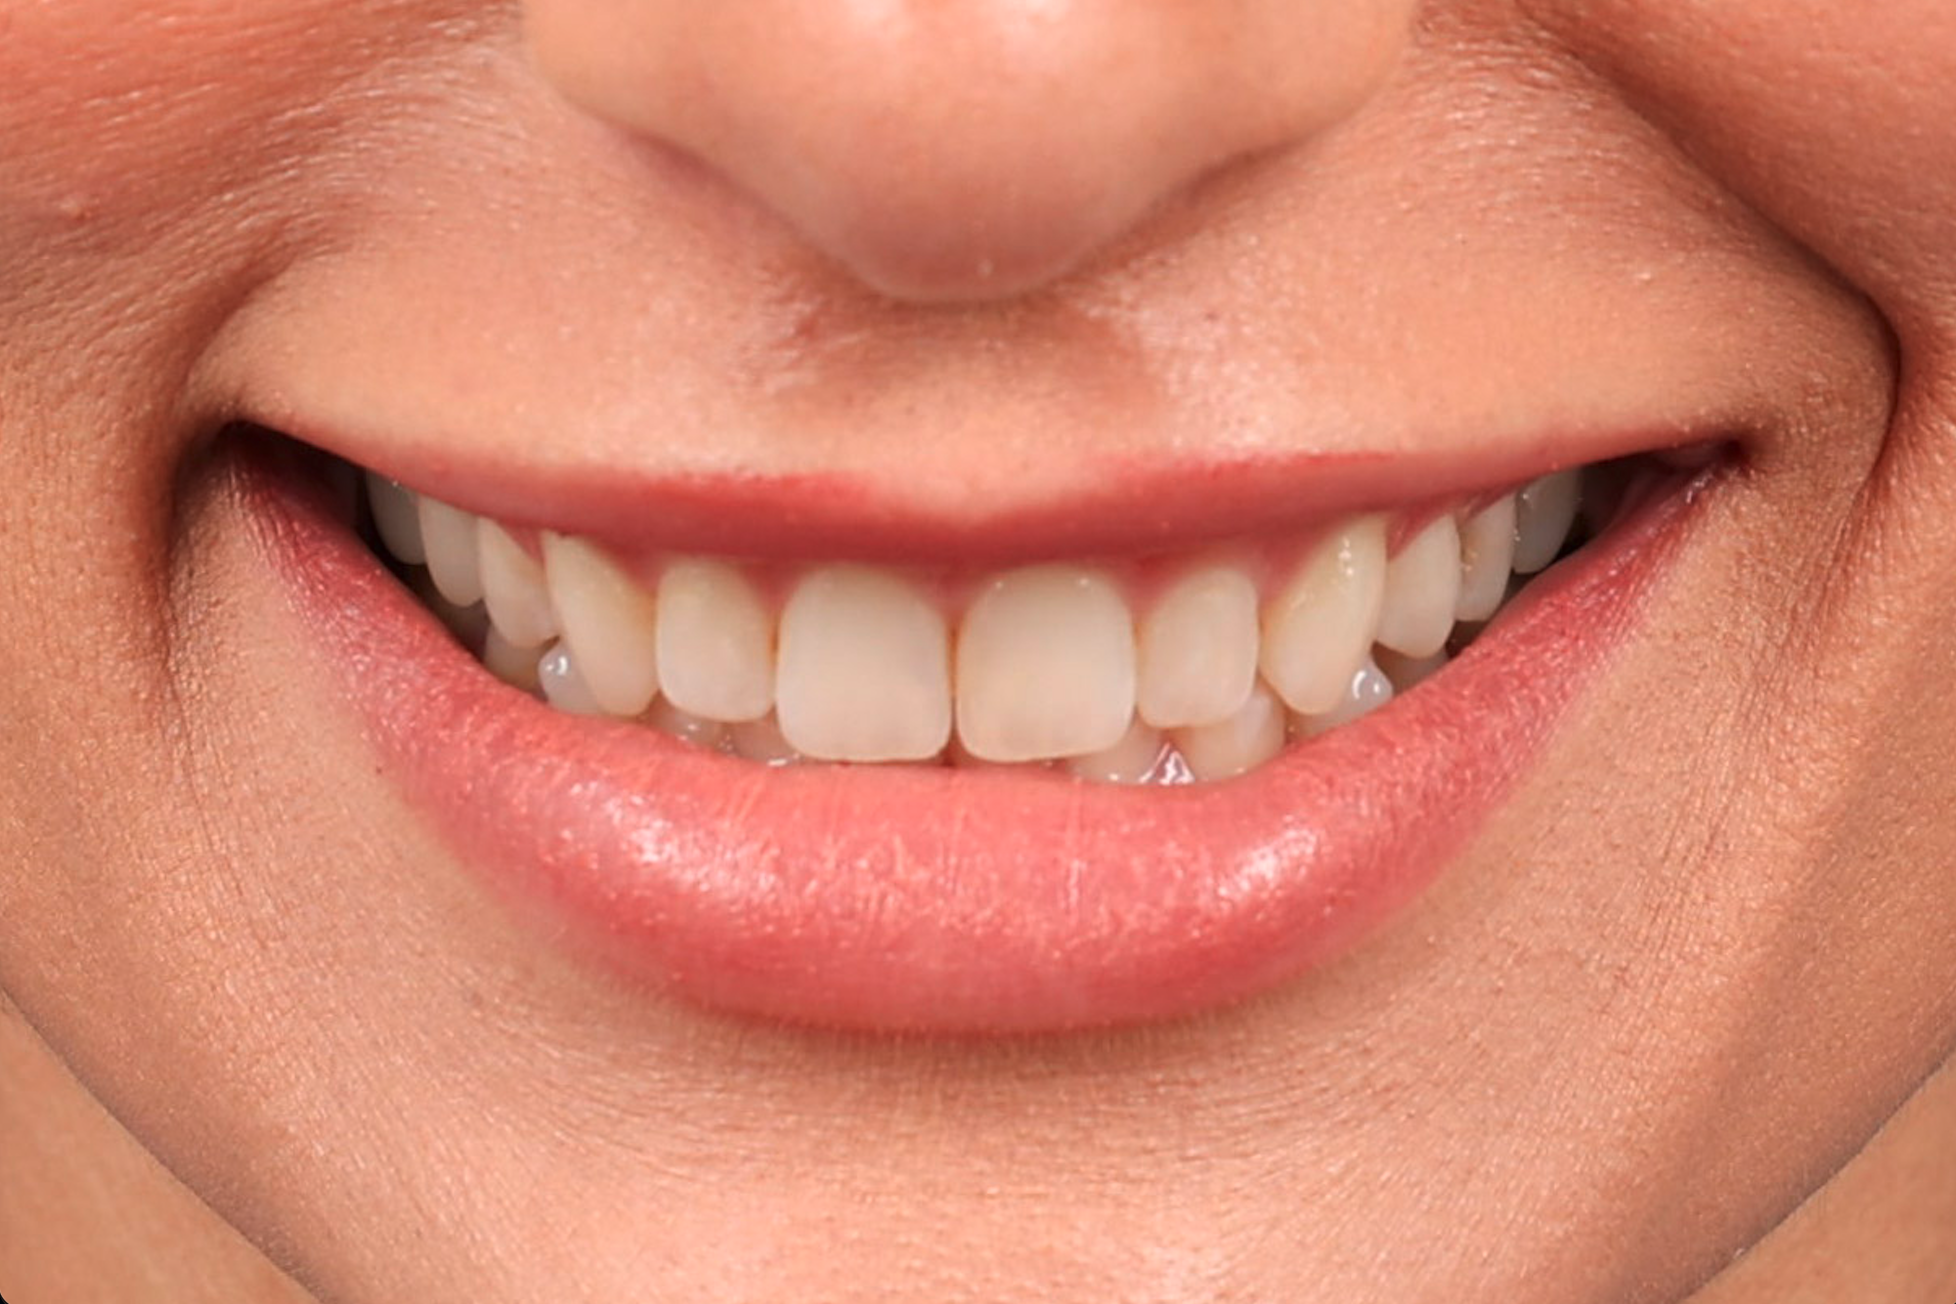
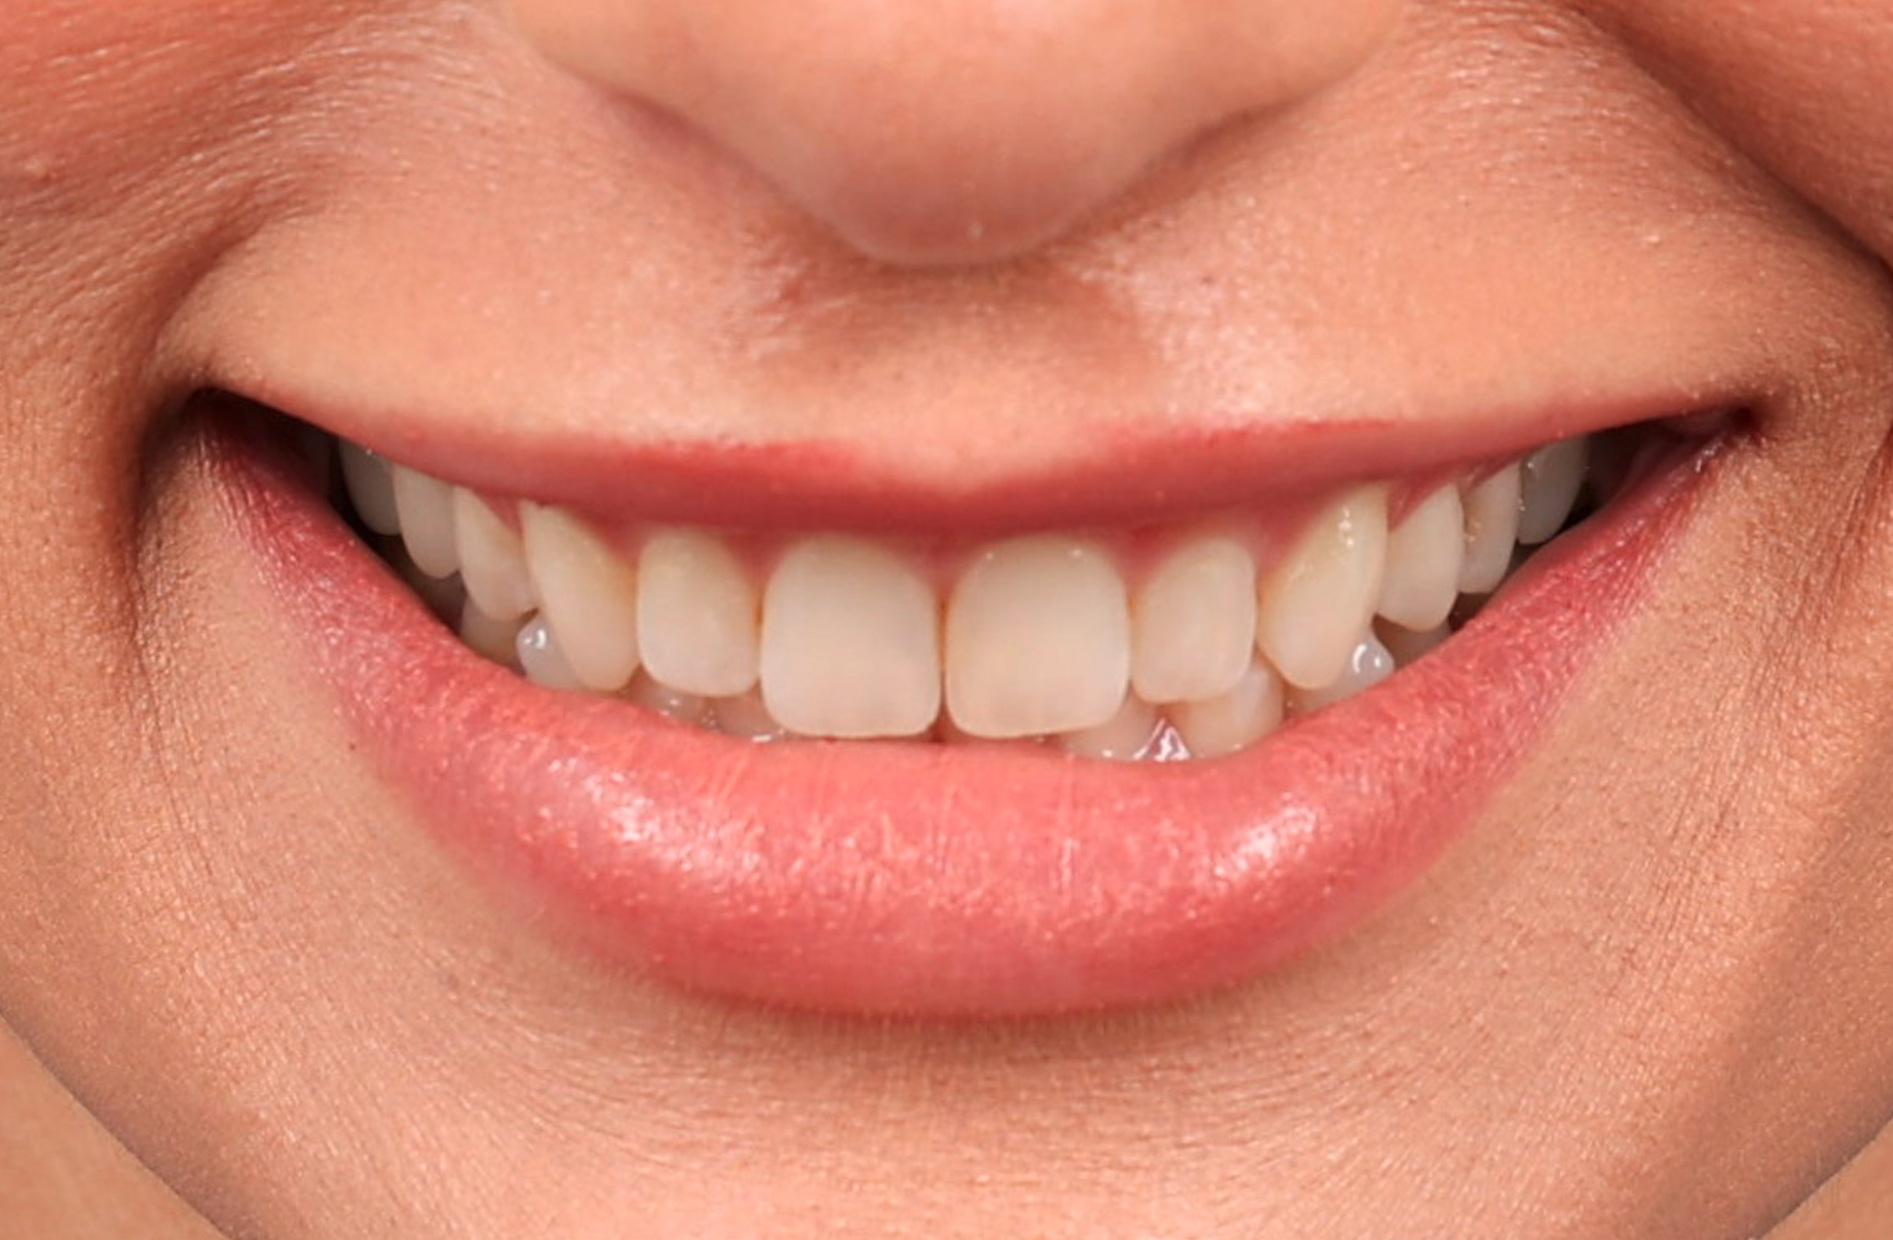
done

diff --git a/src/components/RealSection.tsx b/src/components/RealSection.tsx
@@ -71,14 +71,26 @@ export default function RealSection() {
       <div className="grain pointer-events-none absolute inset-0" />
 
       <div className="relative mx-auto grid max-w-7xl items-center gap-14 px-6 sm:px-10 lg:grid-cols-[1fr_1.05fr] lg:gap-20">
-        {/* ---------- Copy (desktop only) ---------- */}
-        <div className="hidden lg:block">
+        {/* ---------- Copy (desktop only) ----------
+            Deep-navy panel: a cool counterpoint to the site's warm gold palette,
+            letting the gold accents read as luxe rather than yellow. */}
+        <div className="relative hidden overflow-hidden rounded-[1.75rem] bg-gradient-to-br from-[#3a4d78] via-[#2e3f63] to-[#26314f] p-11 ring-1 ring-white/10 shadow-[0_50px_110px_-45px_rgba(33,44,74,0.7)] lg:block lg:p-14">
+          {/* Soft warm glow + gold top hairline tie the panel back to the brand. */}
+          <div
+            aria-hidden
+            className="pointer-events-none absolute -right-16 -top-20 h-64 w-64 rounded-full bg-accent/15 blur-3xl"
+          />
+          <span
+            aria-hidden
+            className="absolute inset-x-0 top-0 h-px bg-gradient-to-r from-transparent via-accent/60 to-transparent"
+          />
+
           <motion.div
             initial="hidden"
             whileInView="show"
             viewport={viewport}
             variants={reveal}
-            className="flex items-center gap-3 text-xs uppercase tracking-[0.22em] text-accent-deep"
+            className="relative flex items-center gap-3 text-xs uppercase tracking-[0.22em] text-accent"
           >
             <span className="h-px w-10 bg-accent" />
             The difference
@@ -90,11 +102,11 @@ export default function RealSection() {
             viewport={viewport}
             variants={reveal}
             custom={1}
-            className="mt-6 font-display text-[clamp(2.75rem,5.5vw,4.75rem)] leading-[0.98] tracking-tight"
+            className="relative mt-6 font-display text-[clamp(2.75rem,5.5vw,4.75rem)] leading-[0.98] tracking-tight text-white"
           >
             Veneers should
             <br />
-            look <span className="italic text-accent-deep">real.</span>
+            look <span className="italic text-accent">real.</span>
           </motion.h2>
 
           <motion.p
@@ -103,14 +115,14 @@ export default function RealSection() {
             viewport={viewport}
             variants={reveal}
             custom={2}
-            className="mt-7 max-w-xl text-lg leading-relaxed text-foreground-muted text-balance"
+            className="relative mt-7 max-w-xl text-lg leading-relaxed text-white/70 text-balance"
           >
             No bulky, opaque &ldquo;Hollywood&rdquo; blocks. Every smile is
             hand-designed to match your face, your bite, and the way light moves
             through natural enamel — so the only person who knows is you.
           </motion.p>
 
-          <ul className="mt-10 space-y-5">
+          <ul className="relative mt-10 space-y-5">
             {FEATURES.map((f, i) => (
               <motion.li
                 key={f.title}
@@ -121,7 +133,7 @@ export default function RealSection() {
                 custom={3 + i}
                 className="flex gap-4"
               >
-                <span className="mt-1 grid h-6 w-6 shrink-0 place-items-center rounded-full bg-accent-soft text-accent-deep ring-1 ring-accent/30">
+                <span className="mt-1 grid h-6 w-6 shrink-0 place-items-center rounded-full bg-accent text-[#26314f] ring-1 ring-accent/40">
                   <svg
                     width="13"
                     height="13"
@@ -137,10 +149,10 @@ export default function RealSection() {
                   </svg>
                 </span>
                 <div>
-                  <div className="font-display text-xl tracking-tight">
+                  <div className="font-display text-xl tracking-tight text-white">
                     {f.title}
                   </div>
-                  <div className="mt-1 text-base leading-relaxed text-foreground-muted">
+                  <div className="mt-1 text-base leading-relaxed text-white/65">
                     {f.body}
                   </div>
                 </div>
